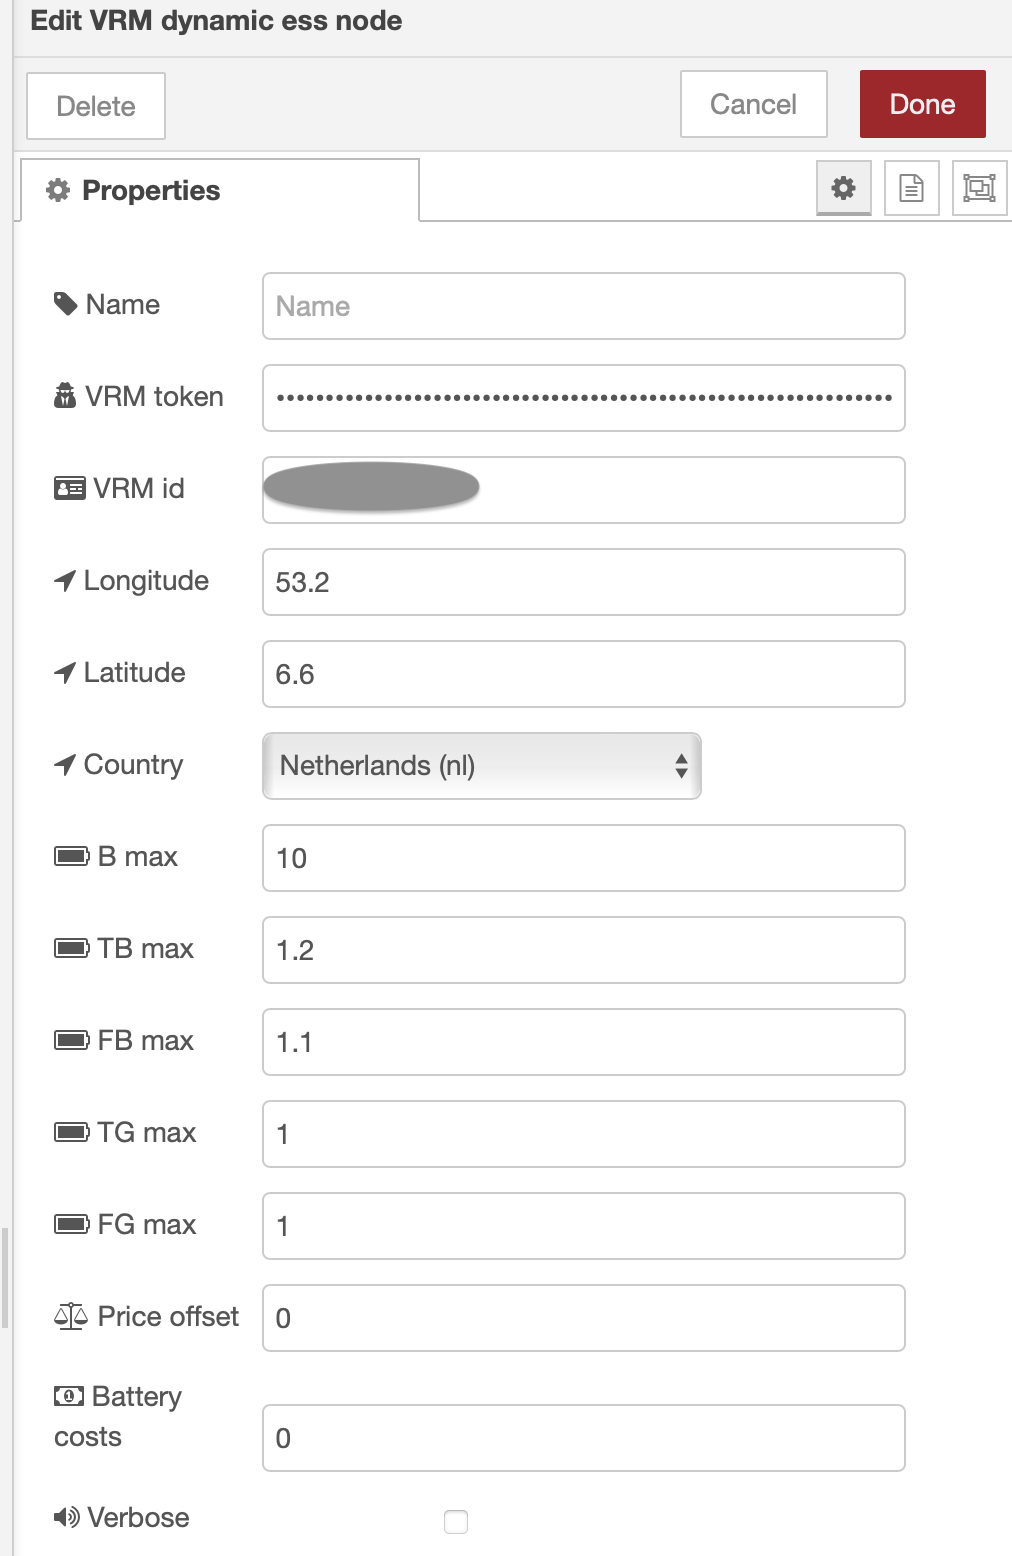
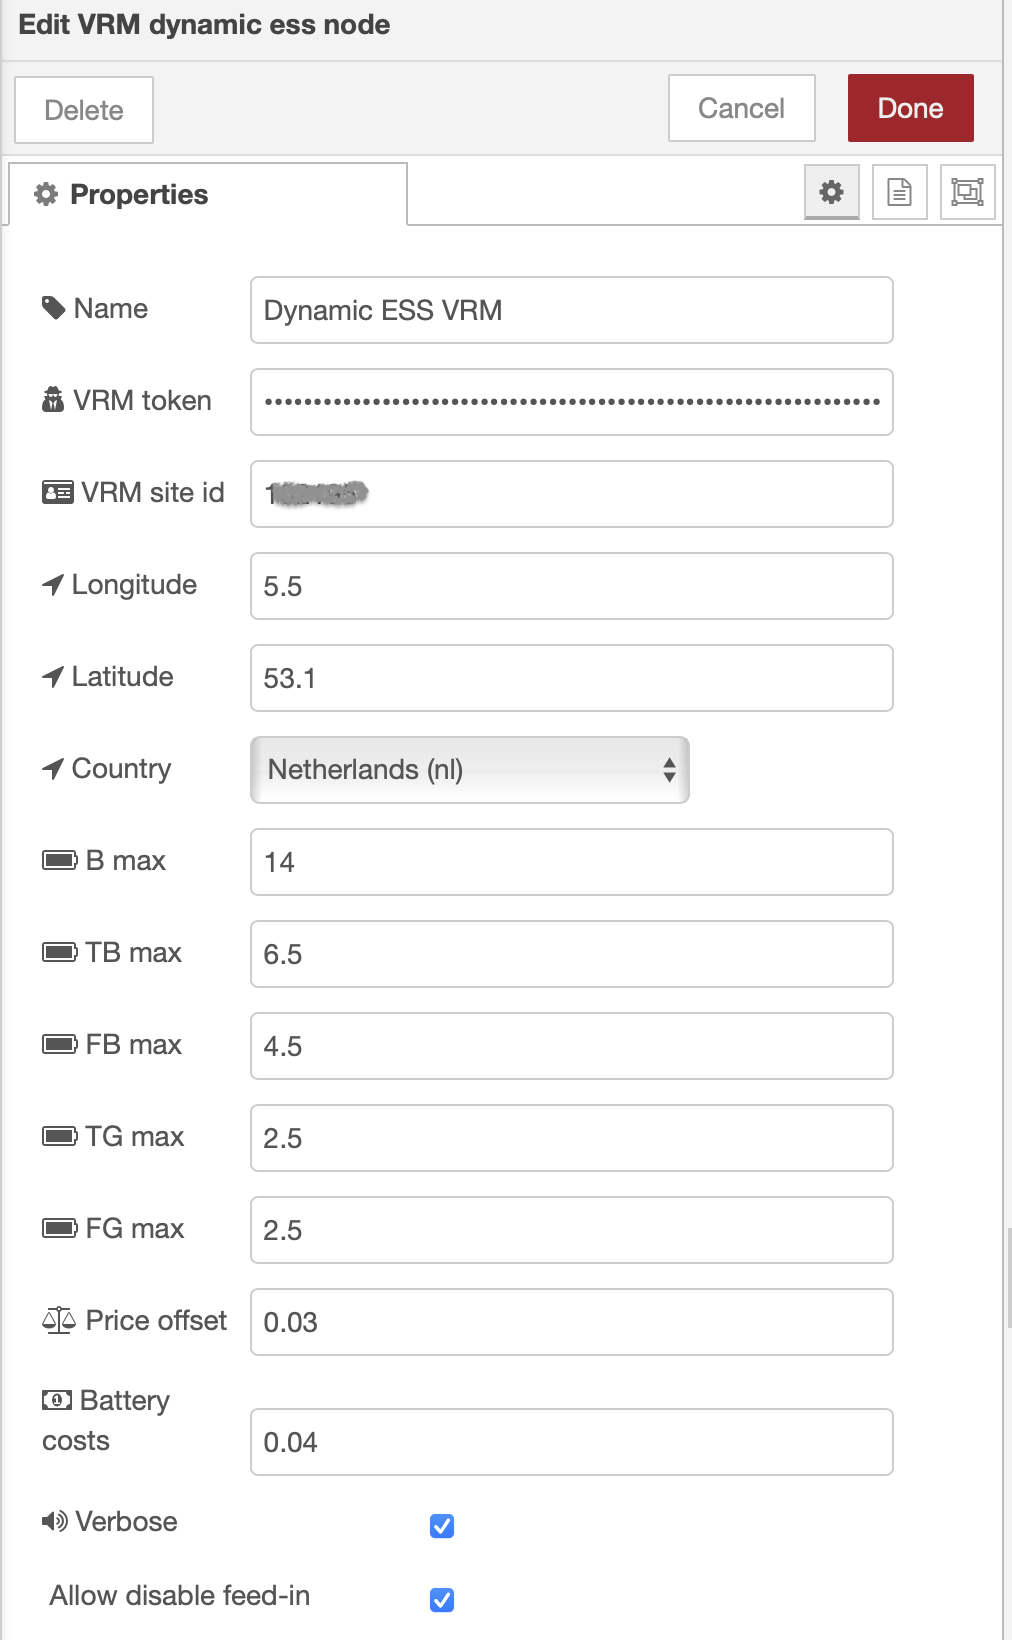
Updated readme with quick-start

diff --git a/README.md b/README.md
@@ -4,6 +4,31 @@ A node-red flow that uses VRM forecasting and algorithm to optimize when to sell
 Note:
 - To use this code, your installation on VRM needs to be enabled for a beta group. Until that is done an Error 500 will be shown.
 - This is a proof of concept project. In the future this implementation in Node-RED will become obsolete as the functionality will move into VRM/Venus OS native.
+- This flow uses control paths that may interfere with your normal GX device usage. It adjusts settings (setpoint) and will insert a schedule for charging in the ESS menu. If you don't want that, don't use this node. See below which dbus paths are being used.
+
+## Quick-start
+
+After installing this node, import the _fetch-dynamic-ess_ example (ctrl-i). Once 
+imported, double-click the _Dynamic ESS VRM_ node and fill out all required fields.
+
+<img src="https://github.com/victronenergy/dynamic-ess/raw/main/doc/img/import-example.png" width="70%" alt="Edit panel" />
+
+In the rest of this document some more information may be found on getting the right
+values for optimizing the configuration. In short:
+- Access token - The VRM access token. See below on how to create one for your site.
+- Site ID - Note that this may not be the same as your user ID. You can find your site id in the url on your dashboard. If for example your url for your dashboard is https://vrm.victronenergy.com/installation/654321/dashboard, your Site ID is 654321
+- B_max - Battery capacity (in kWh)
+- tb_max - Maximum Battery charge power (in kW)
+- fb_max  - Maximum Battery discharge power (in kW)
+- tg_max - Maximum Grid Export power (in kW)
+- fg_max - Maximum Grid Import power (in kW). 
+- Price offset - Fee paid for buying or selling energy to the grid (in €/kWh).
+- Battery costs - Cost of charging or discharging battery (in €/kWh).
+- Allow disable feed-in - Grid feed-in will be enabled/disabled
+
+The default filled out values are typical values. If you think you are factors of, you might want to consult on the [community](https://community.victronenergy.com/index.html) and ask for advice on what to fill out. 
+
+<img src="https://github.com/victronenergy/dynamic-ess/raw/main/doc/img/edit-panel.png" width="70%" alt="Edit panel" />
 
 ## Flow screenshot
 
@@ -22,6 +47,8 @@ optimal value, all being taken into account. These factors are:
 - the charge speed of your battery
 - the discharge speed of your battery
 - your predicted consumption
+- the grid cost per kWh
+- the battery cost per kWh
 
 If all of these values are known, VRM can make a calculated optimum setpoint available
 via its application programming interface (API). The _dynamic ess_ node
@@ -68,7 +95,7 @@ energy price from ENTSO-E. ENTSO-E is the European association for the
 cooperation of transmission system operators (TSOs) for electricity. All EU countries
 use this as source for determining their next day dynamic energy prices.
 
-![Edit panel](doc/img/edit-panel.png)
+<img src="https://github.com/victronenergy/dynamic-ess/raw/main/doc/img/edit-panel.png" width="70%" alt="Edit panel" />
 
 # Create an access token
 
